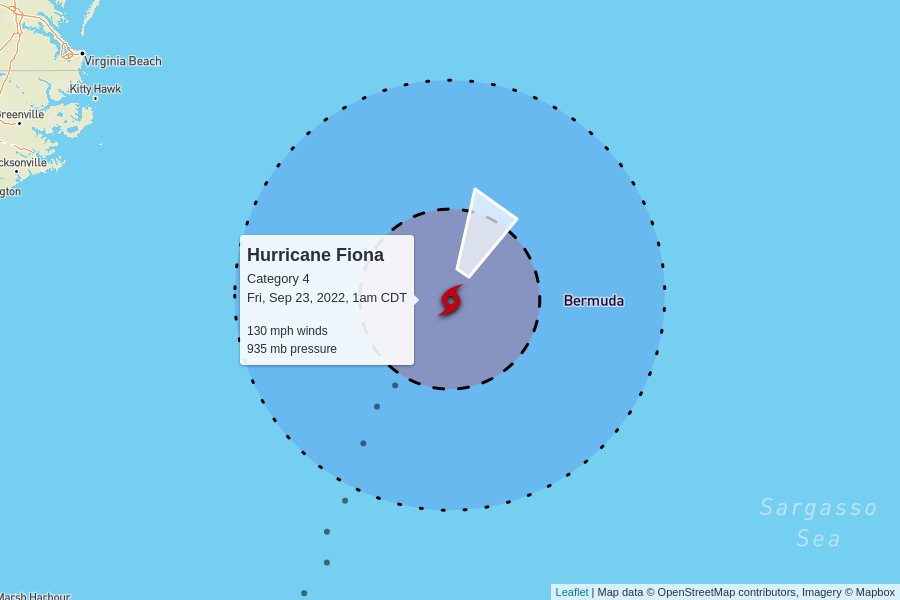
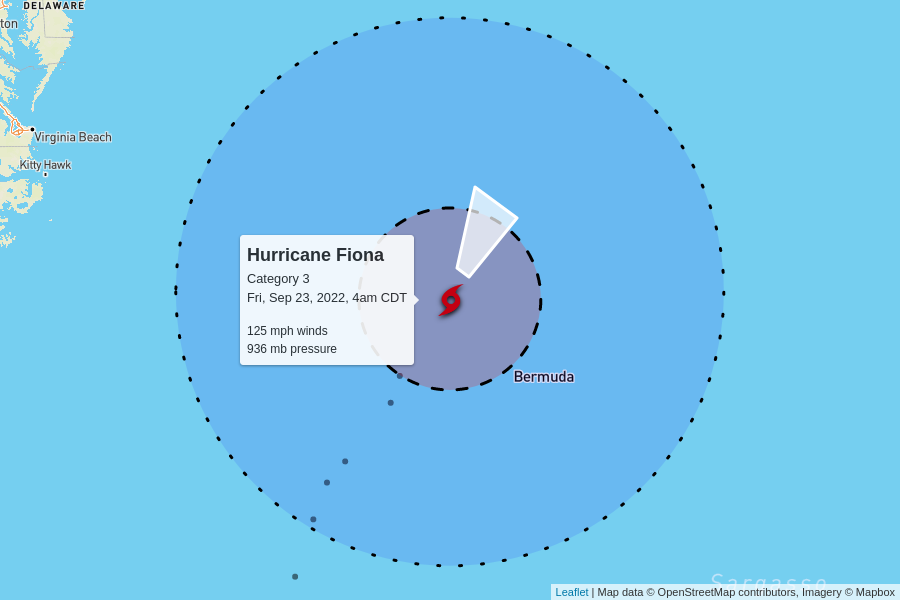
automatic update

diff --git a/docs/index.html b/docs/index.html
@@ -97,10 +97,10 @@
 
     <table>
       <tr>
-        <td colspan="6" class="storm category-4" >
+        <td colspan="6" class="storm category-0" >
           <h2>
-            Hurricane Fiona - Category 4
-            <p class="updated">last updated <span data-time>2022-09-23T06:00:00.000Z</span></p>
+            Tropical Storm Gaston
+            <p class="updated">last updated <span data-time>2022-09-23T09:00:00.000Z</span></p>
           </h2>
         </td>
       </tr>
@@ -115,21 +115,21 @@
       </tr>
       <tr>
         <td class="spacer"></td>
-        <td>130 mph</td>
-        <td>935 mb</td>
+        <td>60 mph</td>
+        <td>999 mb</td>
         <td>
-          21 mph to the north-northeast
+          9 mph to the east-southeast
           <br/>
-          <span style="display: inline-block; font-size: 1.5em; transform: rotate(30deg);">↑</span>
+          <span style="display: inline-block; font-size: 1.5em; transform: rotate(115deg);">↑</span>
         </td>
-        <td><a href="https://raw.githubusercontent.com/mgwalker/atlantic-hurricanes/main/data/csv/AL072022.csv">AL072022.csv</a></td>
-        <td><a href="https://www.nhc.noaa.gov/archive/2022/FIONA.shtml?">NHC advisories</a></td>
+        <td><a href="https://raw.githubusercontent.com/mgwalker/atlantic-hurricanes/main/data/csv/AL082022.csv">AL082022.csv</a></td>
+        <td><a href="https://www.nhc.noaa.gov/archive/2022/GASTON.shtml?">NHC advisories</a></td>
       </tr>
-      <tr id="storm_AL072022" >
+      <tr id="storm_AL082022" >
         <td class="spacer">
         <td colspan="5">
           <figure>
-            <img src="AL072022.png">
+            <img src="AL082022.png">
             <figcaption>
               Map data &copy; <a href="https://www.openstreetmap.org/copyright">OpenStreetMap</a> contributors,
               Imagery &copy; <a href="https://www.mapbox.com/">Mapbox</a> |
@@ -143,8 +143,8 @@
       <tr>
         <td colspan="6" class="storm category-0" >
           <h2>
-            Tropical Storm Gaston
-            <p class="updated">last updated <span data-time>2022-09-23T06:00:00.000Z</span></p>
+            Tropical Depression Nine
+            <p class="updated">last updated <span data-time>2022-09-23T09:00:00.000Z</span></p>
           </h2>
         </td>
       </tr>
@@ -159,21 +159,65 @@
       </tr>
       <tr>
         <td class="spacer"></td>
-        <td>65 mph</td>
-        <td>999 mb</td>
+        <td>35 mph</td>
+        <td>1006 mb</td>
         <td>
-          14 mph to the east-southeast
+          13 mph to the west-northwest
           <br/>
-          <span style="display: inline-block; font-size: 1.5em; transform: rotate(105deg);">↑</span>
+          <span style="display: inline-block; font-size: 1.5em; transform: rotate(290deg);">↑</span>
         </td>
-        <td><a href="https://raw.githubusercontent.com/mgwalker/atlantic-hurricanes/main/data/csv/AL082022.csv">AL082022.csv</a></td>
-        <td><a href="https://www.nhc.noaa.gov/archive/2022/GASTON.shtml?">NHC advisories</a></td>
+        <td><a href="https://raw.githubusercontent.com/mgwalker/atlantic-hurricanes/main/data/csv/AL092022.csv">AL092022.csv</a></td>
+        <td><a href="https://www.nhc.noaa.gov/archive/2022/NINE.shtml?">NHC advisories</a></td>
       </tr>
-      <tr id="storm_AL082022" >
+      <tr id="storm_AL092022" >
         <td class="spacer">
         <td colspan="5">
           <figure>
-            <img src="AL082022.png">
+            <img src="AL092022.png">
+            <figcaption>
+              Map data &copy; <a href="https://www.openstreetmap.org/copyright">OpenStreetMap</a> contributors,
+              Imagery &copy; <a href="https://www.mapbox.com/">Mapbox</a> |
+              <a href="https://www.mapbox.com/map-feedback/" target="_blank">Improve this map</a>
+            </figcaption>
+          </figure>
+        </td>
+      </tr>
+      
+
+      <tr>
+        <td colspan="6" class="storm category-3" >
+          <h2>
+            Hurricane Fiona - Category 3
+            <p class="updated">last updated <span data-time>2022-09-23T09:00:00.000Z</span></p>
+          </h2>
+        </td>
+      </tr>
+      
+      <tr>
+        <th class="spacer"></th>
+        <th>wind speed</th>
+        <th>central pressure</th>
+        <th>movement</th>
+        <th>data (CSV)</th>
+        <th>National Hurricane Center</th>
+      </tr>
+      <tr>
+        <td class="spacer"></td>
+        <td>125 mph</td>
+        <td>936 mb</td>
+        <td>
+          25 mph to the north-northeast
+          <br/>
+          <span style="display: inline-block; font-size: 1.5em; transform: rotate(30deg);">↑</span>
+        </td>
+        <td><a href="https://raw.githubusercontent.com/mgwalker/atlantic-hurricanes/main/data/csv/AL072022.csv">AL072022.csv</a></td>
+        <td><a href="https://www.nhc.noaa.gov/archive/2022/FIONA.shtml?">NHC advisories</a></td>
+      </tr>
+      <tr id="storm_AL072022" >
+        <td class="spacer">
+        <td colspan="5">
+          <figure>
+            <img src="AL072022.png">
             <figcaption>
               Map data &copy; <a href="https://www.openstreetmap.org/copyright">OpenStreetMap</a> contributors,
               Imagery &copy; <a href="https://www.mapbox.com/">Mapbox</a> |
